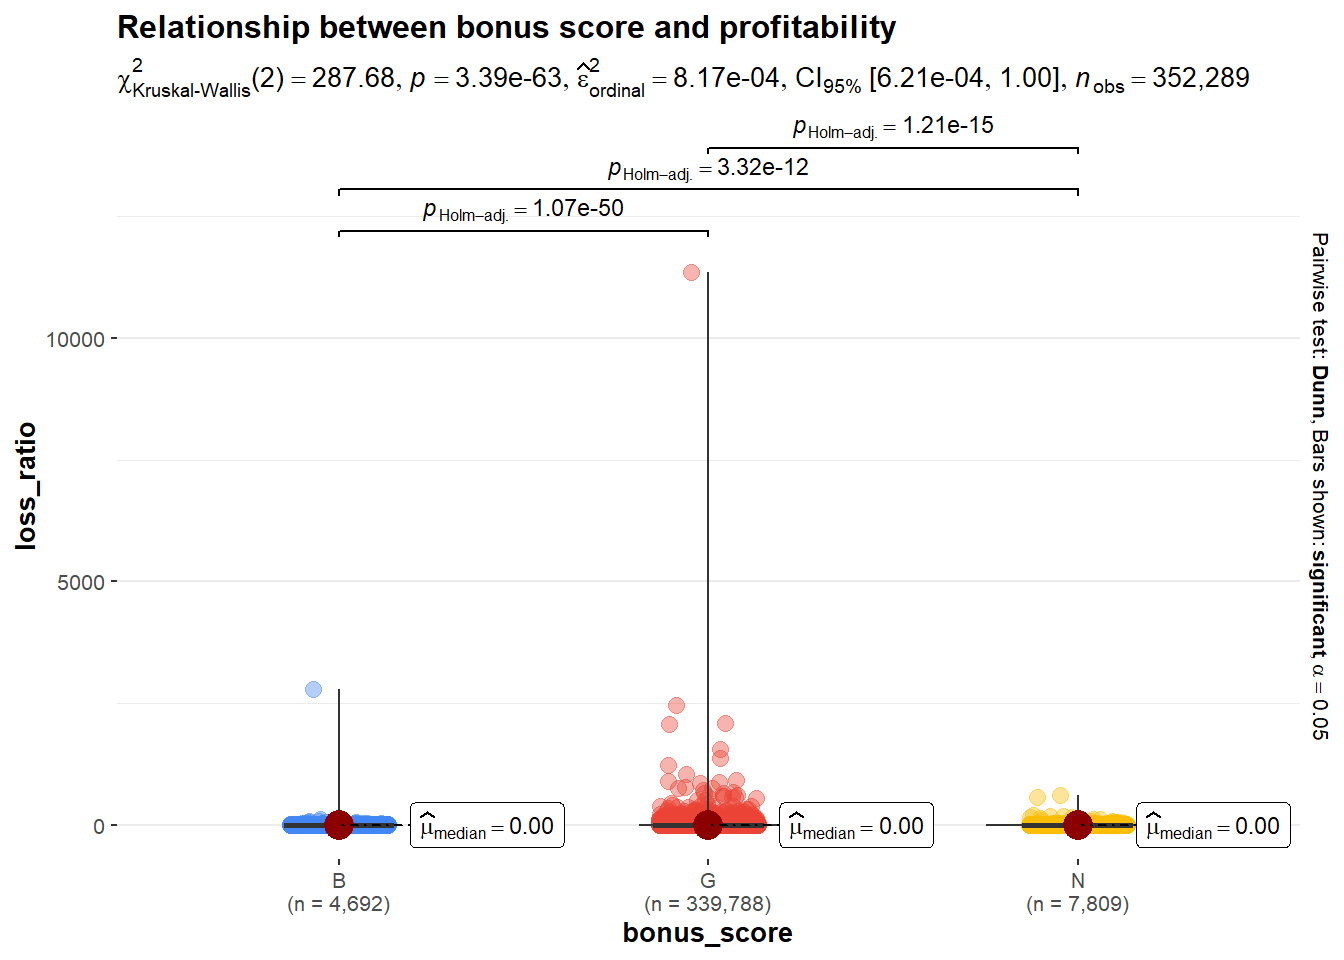
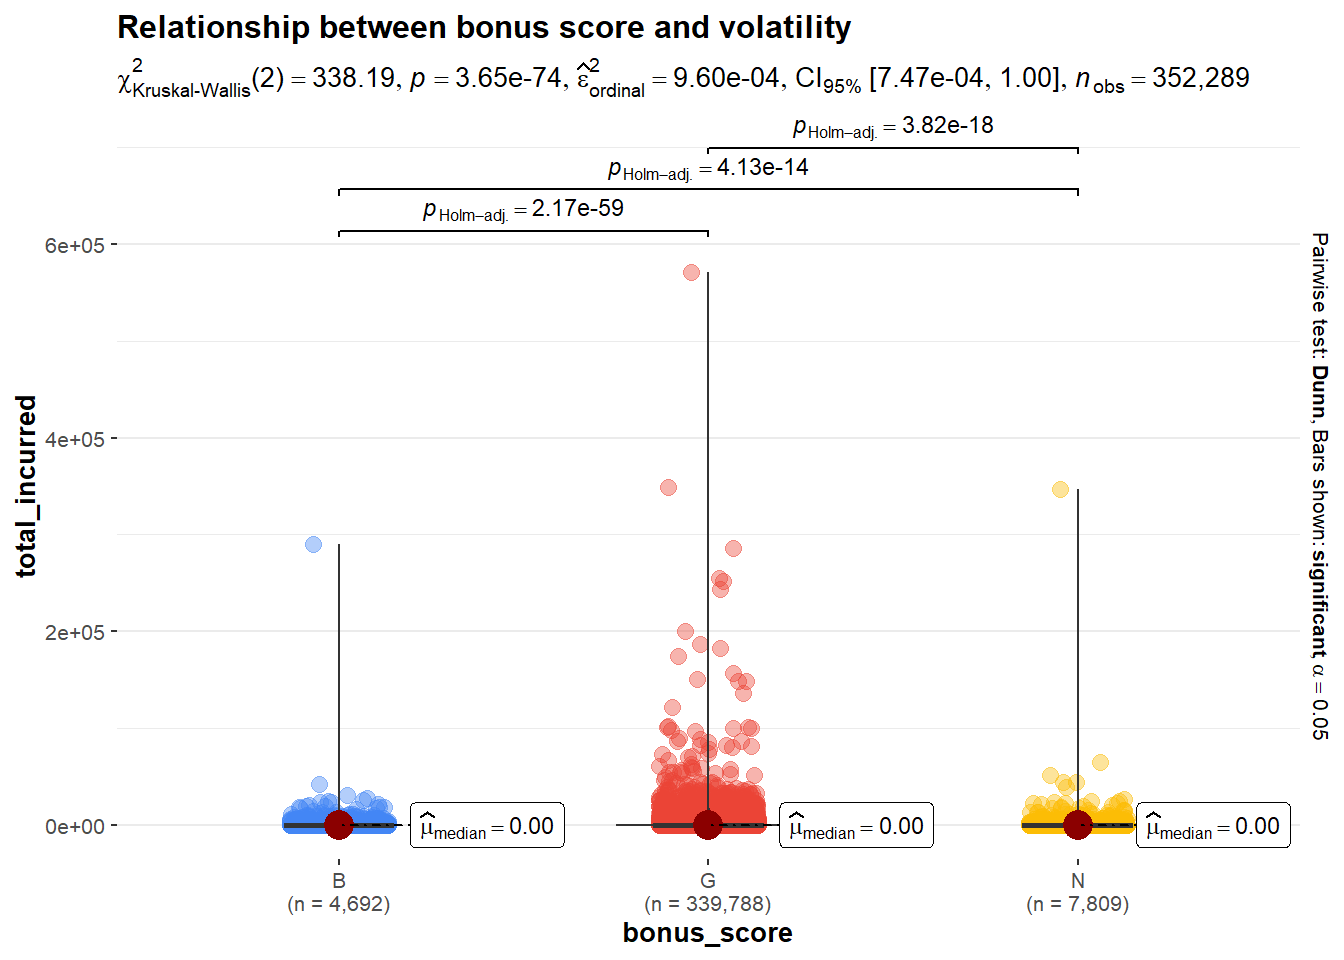
Edit bivariate analysis

diff --git a/_site/Take_Home_Ex/Take_Home_Ex1/Take_Home_Ex1.html b/_site/Take_Home_Ex/Take_Home_Ex1/Take_Home_Ex1.html
@@ -2124,7 +2124,7 @@ Note
 <p><code>ggbetweenstats</code> and <code>ggscatterstats</code> are used to do statistical bivariate analysis.</p>
 <section id="relationship-between-bonus-score-and-profitability" class="level2">
 <h2 class="anchored" data-anchor-id="relationship-between-bonus-score-and-profitability">Relationship between bonus score and profitability</h2>
-<p>One-way ANOVA is used to find the relationship between bonus score and profitability since <code>bonus_score</code> has more than 2 groups.</p>
+<p>One-way ANOVA test is suitable to find the relationship between bonus score and profitability since <code>bonus_score</code> has more than 2 groups. But first check first if parametric or non-parametric using Shapiro test on <code>loss_ratio</code>.</p>
 <div class="cell">
 <div class="code-copy-outer-scaffold"><div class="sourceCode cell-code" id="cb55"><pre class="sourceCode r code-with-copy"><code class="sourceCode r"><span id="cb55-1"><a href="#cb55-1" aria-hidden="true" tabindex="-1"></a><span class="co"># for reproducibility</span></span>
 <span id="cb55-2"><a href="#cb55-2" aria-hidden="true" tabindex="-1"></a><span class="fu">set.seed</span>(<span class="dv">123</span>)</span>
@@ -2137,7 +2137,7 @@ data:  sample(insurance$loss_ratio, 5000)
 W = 0.12385, p-value &lt; 2.2e-16</code></pre>
 </div>
 </div>
-<p>Since both shows that it is significant, then Kursal-Wallis test is used.</p>
+<p>Since result shows that it is significant, then Kruskal-Wallis test is used.</p>
 <div class="cell">
 <div class="code-copy-outer-scaffold"><div class="sourceCode cell-code" id="cb57"><pre class="sourceCode r code-with-copy"><code class="sourceCode r"><span id="cb57-1"><a href="#cb57-1" aria-hidden="true" tabindex="-1"></a><span class="fu">ggbetweenstats</span>(</span>
 <span id="cb57-2"><a href="#cb57-2" aria-hidden="true" tabindex="-1"></a>  <span class="at">data =</span> insurance,</span>
@@ -2157,7 +2157,7 @@ W = 0.12385, p-value &lt; 2.2e-16</code></pre>
 </section>
 <section id="relationship-between-policy-type-and-profitability" class="level2">
 <h2 class="anchored" data-anchor-id="relationship-between-policy-type-and-profitability">Relationship between policy type and profitability</h2>
-<p>One-way ANOVA is also used to find the relationship between policy type and profitability since <code>policy_type</code> has 5 groups. Since the Shapiro test of <code>loss_ratio</code> is significant, then the test done should be non-parametric Kurskal-Wallis test.</p>
+<p>One-way ANOVA is also used to find the relationship between policy type and profitability since <code>policy_type</code> has 5 groups. Since the Shapiro test of <code>loss_ratio</code> is significant, then the test done should be non-parametric Kruskal-Wallis test.</p>
 <div class="cell">
 <div class="code-copy-outer-scaffold"><div class="sourceCode cell-code" id="cb58"><pre class="sourceCode r code-with-copy"><code class="sourceCode r"><span id="cb58-1"><a href="#cb58-1" aria-hidden="true" tabindex="-1"></a><span class="fu">ggbetweenstats</span>(</span>
 <span id="cb58-2"><a href="#cb58-2" aria-hidden="true" tabindex="-1"></a>  <span class="at">data =</span> insurance,</span>
@@ -2197,7 +2197,7 @@ W = 0.12385, p-value &lt; 2.2e-16</code></pre>
 </section>
 <section id="relationship-between-years-of-driving-experience-and-profitability" class="level2">
 <h2 class="anchored" data-anchor-id="relationship-between-years-of-driving-experience-and-profitability">Relationship between years of driving experience and profitability</h2>
-<p>Since driving experience is a numeric value, the test done should be a Significant Test of Correlation. This is done using <code>ggscatterplot</code>. Looking at the univariate analysis, even though <code>driving_experience</code> is normally distributed, <code>loss_ratio</code> is very skewed. So the non-parametric version is used instead, which is the Spearman’s rank correlation coefficient.</p>
+<p>Since driving experience is a numeric value, the test done should be a Significant Test of Correlation. This is done using <code>ggscatterstats</code>. Looking at the univariate analysis, even though <code>driving_experience</code> is normally distributed, <code>loss_ratio</code> is very skewed. So the non-parametric version is used instead, which is the Spearman’s rank correlation coefficient.</p>
 <div class="cell">
 <div class="code-copy-outer-scaffold"><div class="sourceCode cell-code" id="cb60"><pre class="sourceCode r code-with-copy"><code class="sourceCode r"><span id="cb60-1"><a href="#cb60-1" aria-hidden="true" tabindex="-1"></a><span class="fu">ggscatterstats</span>(</span>
 <span id="cb60-2"><a href="#cb60-2" aria-hidden="true" tabindex="-1"></a>  <span class="at">data =</span> insurance,</span>
@@ -2234,9 +2234,9 @@ W = 0.17964, p-value &lt; 2.2e-16</code></pre>
 <div class="code-copy-outer-scaffold"><div class="sourceCode cell-code" id="cb63"><pre class="sourceCode r code-with-copy"><code class="sourceCode r"><span id="cb63-1"><a href="#cb63-1" aria-hidden="true" tabindex="-1"></a><span class="fu">ggbetweenstats</span>(</span>
 <span id="cb63-2"><a href="#cb63-2" aria-hidden="true" tabindex="-1"></a>  <span class="at">data =</span> insurance,</span>
 <span id="cb63-3"><a href="#cb63-3" aria-hidden="true" tabindex="-1"></a>  <span class="at">x =</span> bonus_score,</span>
-<span id="cb63-4"><a href="#cb63-4" aria-hidden="true" tabindex="-1"></a>  <span class="at">y =</span> loss_ratio,</span>
+<span id="cb63-4"><a href="#cb63-4" aria-hidden="true" tabindex="-1"></a>  <span class="at">y =</span> total_incurred,</span>
 <span id="cb63-5"><a href="#cb63-5" aria-hidden="true" tabindex="-1"></a>  <span class="at">type =</span> <span class="st">"np"</span>,</span>
-<span id="cb63-6"><a href="#cb63-6" aria-hidden="true" tabindex="-1"></a>  <span class="at">title =</span> <span class="st">"Relationship between bonus score and profitability"</span></span>
+<span id="cb63-6"><a href="#cb63-6" aria-hidden="true" tabindex="-1"></a>  <span class="at">title =</span> <span class="st">"Relationship between bonus score and volatility"</span></span>
 <span id="cb63-7"><a href="#cb63-7" aria-hidden="true" tabindex="-1"></a>)</span></code></pre></div><button title="Copy to Clipboard" class="code-copy-button"><i class="bi"></i></button></div>
 <div class="cell-output-display">
 <div>
@@ -2249,14 +2249,14 @@ W = 0.17964, p-value &lt; 2.2e-16</code></pre>
 </section>
 <section id="relationship-between-policy-type-and-volatility" class="level2">
 <h2 class="anchored" data-anchor-id="relationship-between-policy-type-and-volatility">Relationship between policy type and volatility</h2>
-<p>Non-parametric version of One-Way ANOVA is also used for this.</p>
+<p>Policy type as mentioned before has 5 groups and it is confirmed that total_incurred is not normally distributed from Shapiro test, therefore Kruskal-Wallis is used.</p>
 <div class="cell">
 <div class="code-copy-outer-scaffold"><div class="sourceCode cell-code" id="cb64"><pre class="sourceCode r code-with-copy"><code class="sourceCode r"><span id="cb64-1"><a href="#cb64-1" aria-hidden="true" tabindex="-1"></a><span class="fu">ggbetweenstats</span>(</span>
 <span id="cb64-2"><a href="#cb64-2" aria-hidden="true" tabindex="-1"></a>  <span class="at">data =</span> insurance,</span>
-<span id="cb64-3"><a href="#cb64-3" aria-hidden="true" tabindex="-1"></a>  <span class="at">x =</span> bonus_score,</span>
-<span id="cb64-4"><a href="#cb64-4" aria-hidden="true" tabindex="-1"></a>  <span class="at">y =</span> loss_ratio,</span>
+<span id="cb64-3"><a href="#cb64-3" aria-hidden="true" tabindex="-1"></a>  <span class="at">x =</span> policy_type,</span>
+<span id="cb64-4"><a href="#cb64-4" aria-hidden="true" tabindex="-1"></a>  <span class="at">y =</span> total_incurred,</span>
 <span id="cb64-5"><a href="#cb64-5" aria-hidden="true" tabindex="-1"></a>  <span class="at">type =</span> <span class="st">"np"</span>,</span>
-<span id="cb64-6"><a href="#cb64-6" aria-hidden="true" tabindex="-1"></a>  <span class="at">title =</span> <span class="st">"Relationship between bonus score and profitability"</span></span>
+<span id="cb64-6"><a href="#cb64-6" aria-hidden="true" tabindex="-1"></a>  <span class="at">title =</span> <span class="st">"Relationship between policy type and volatility"</span></span>
 <span id="cb64-7"><a href="#cb64-7" aria-hidden="true" tabindex="-1"></a>)</span></code></pre></div><button title="Copy to Clipboard" class="code-copy-button"><i class="bi"></i></button></div>
 <div class="cell-output-display">
 <div>
